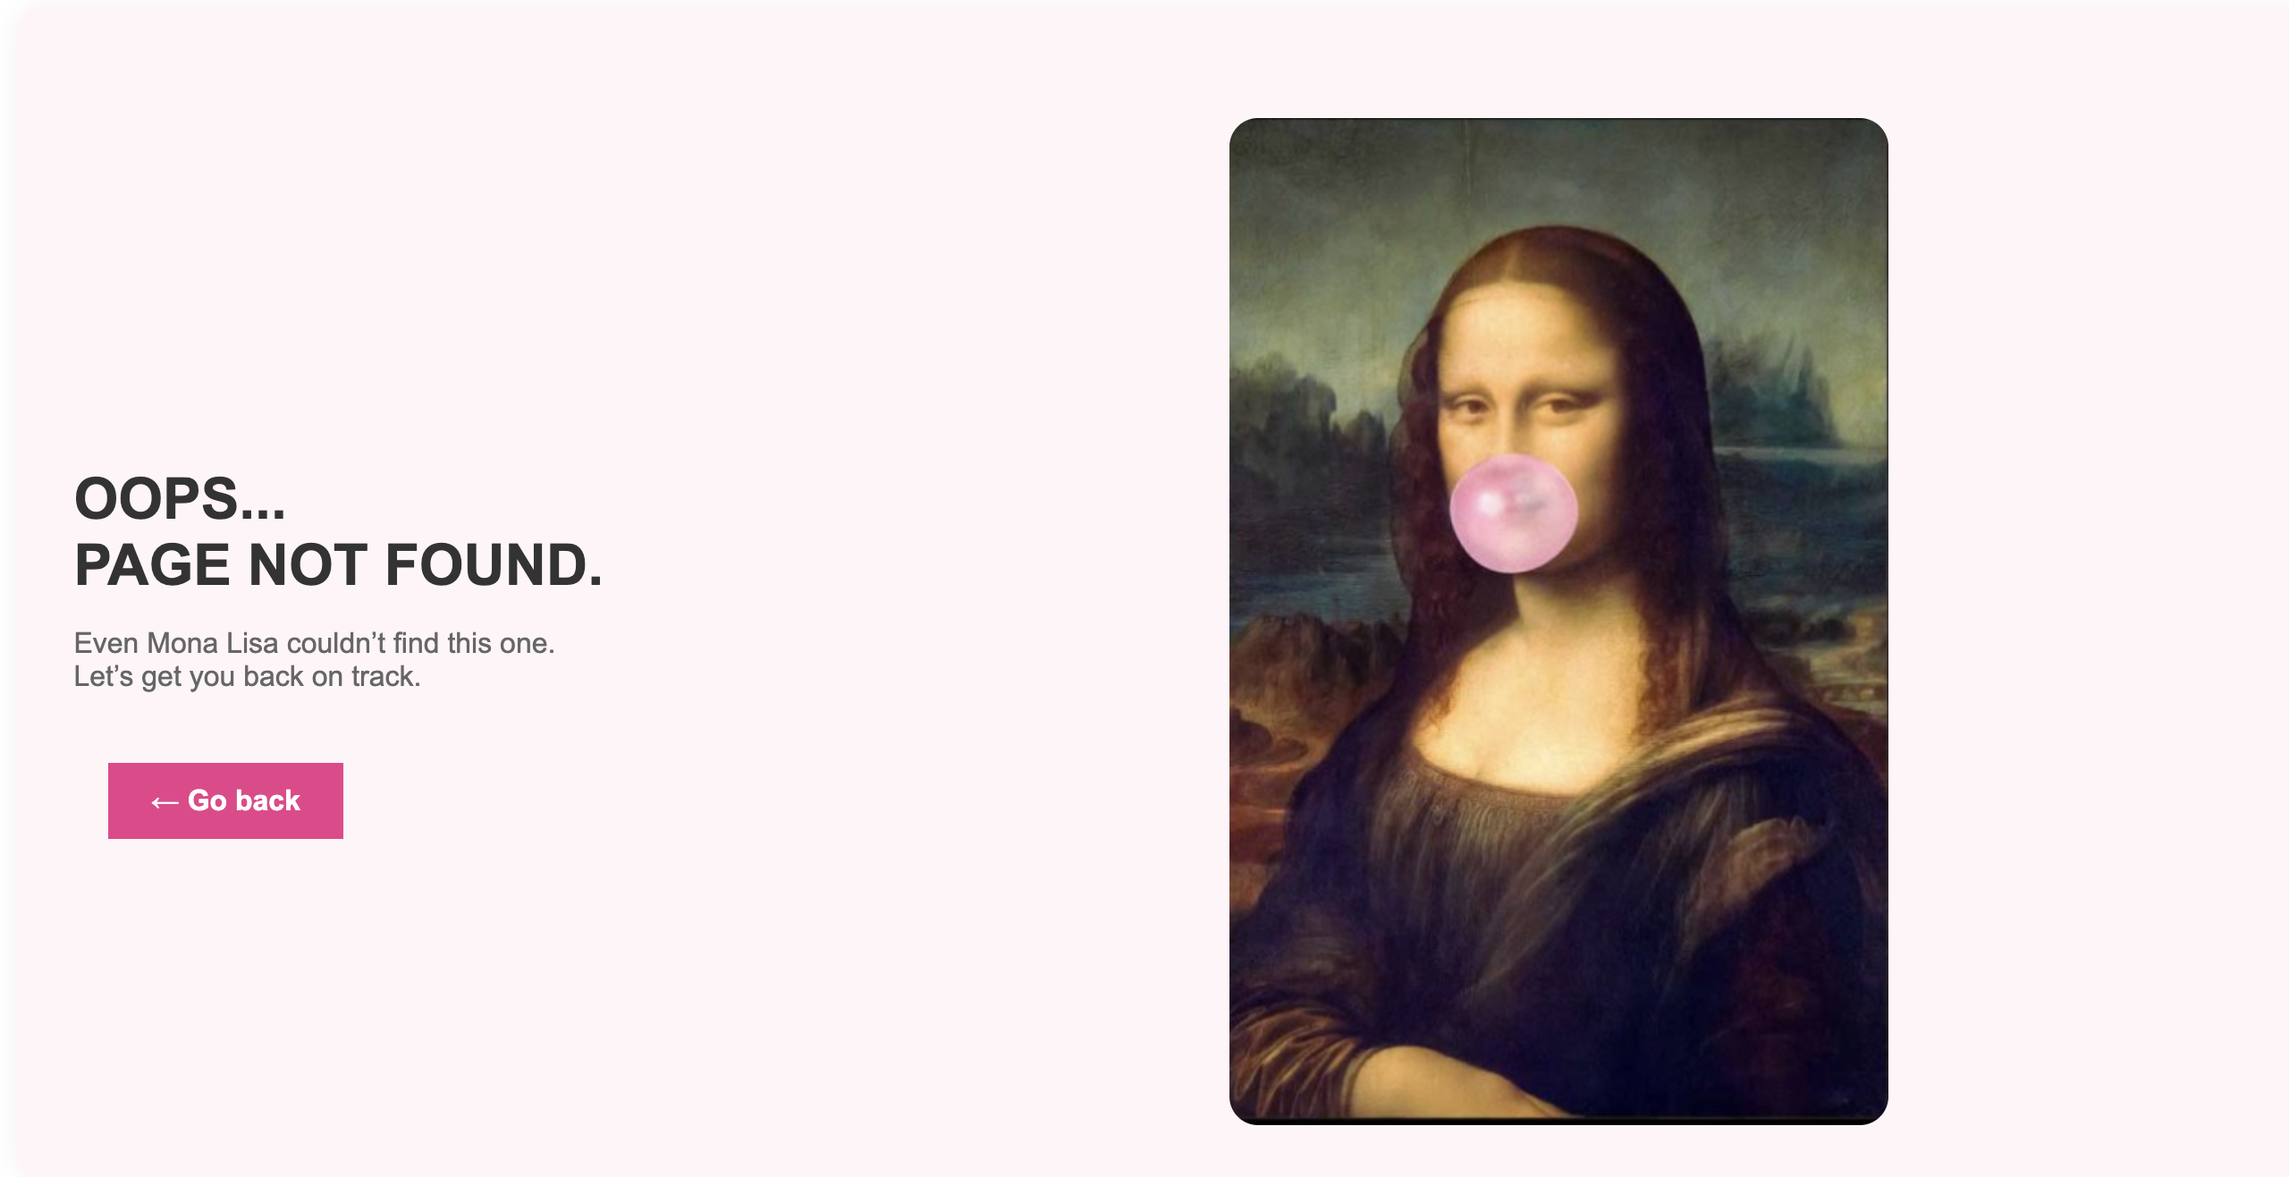
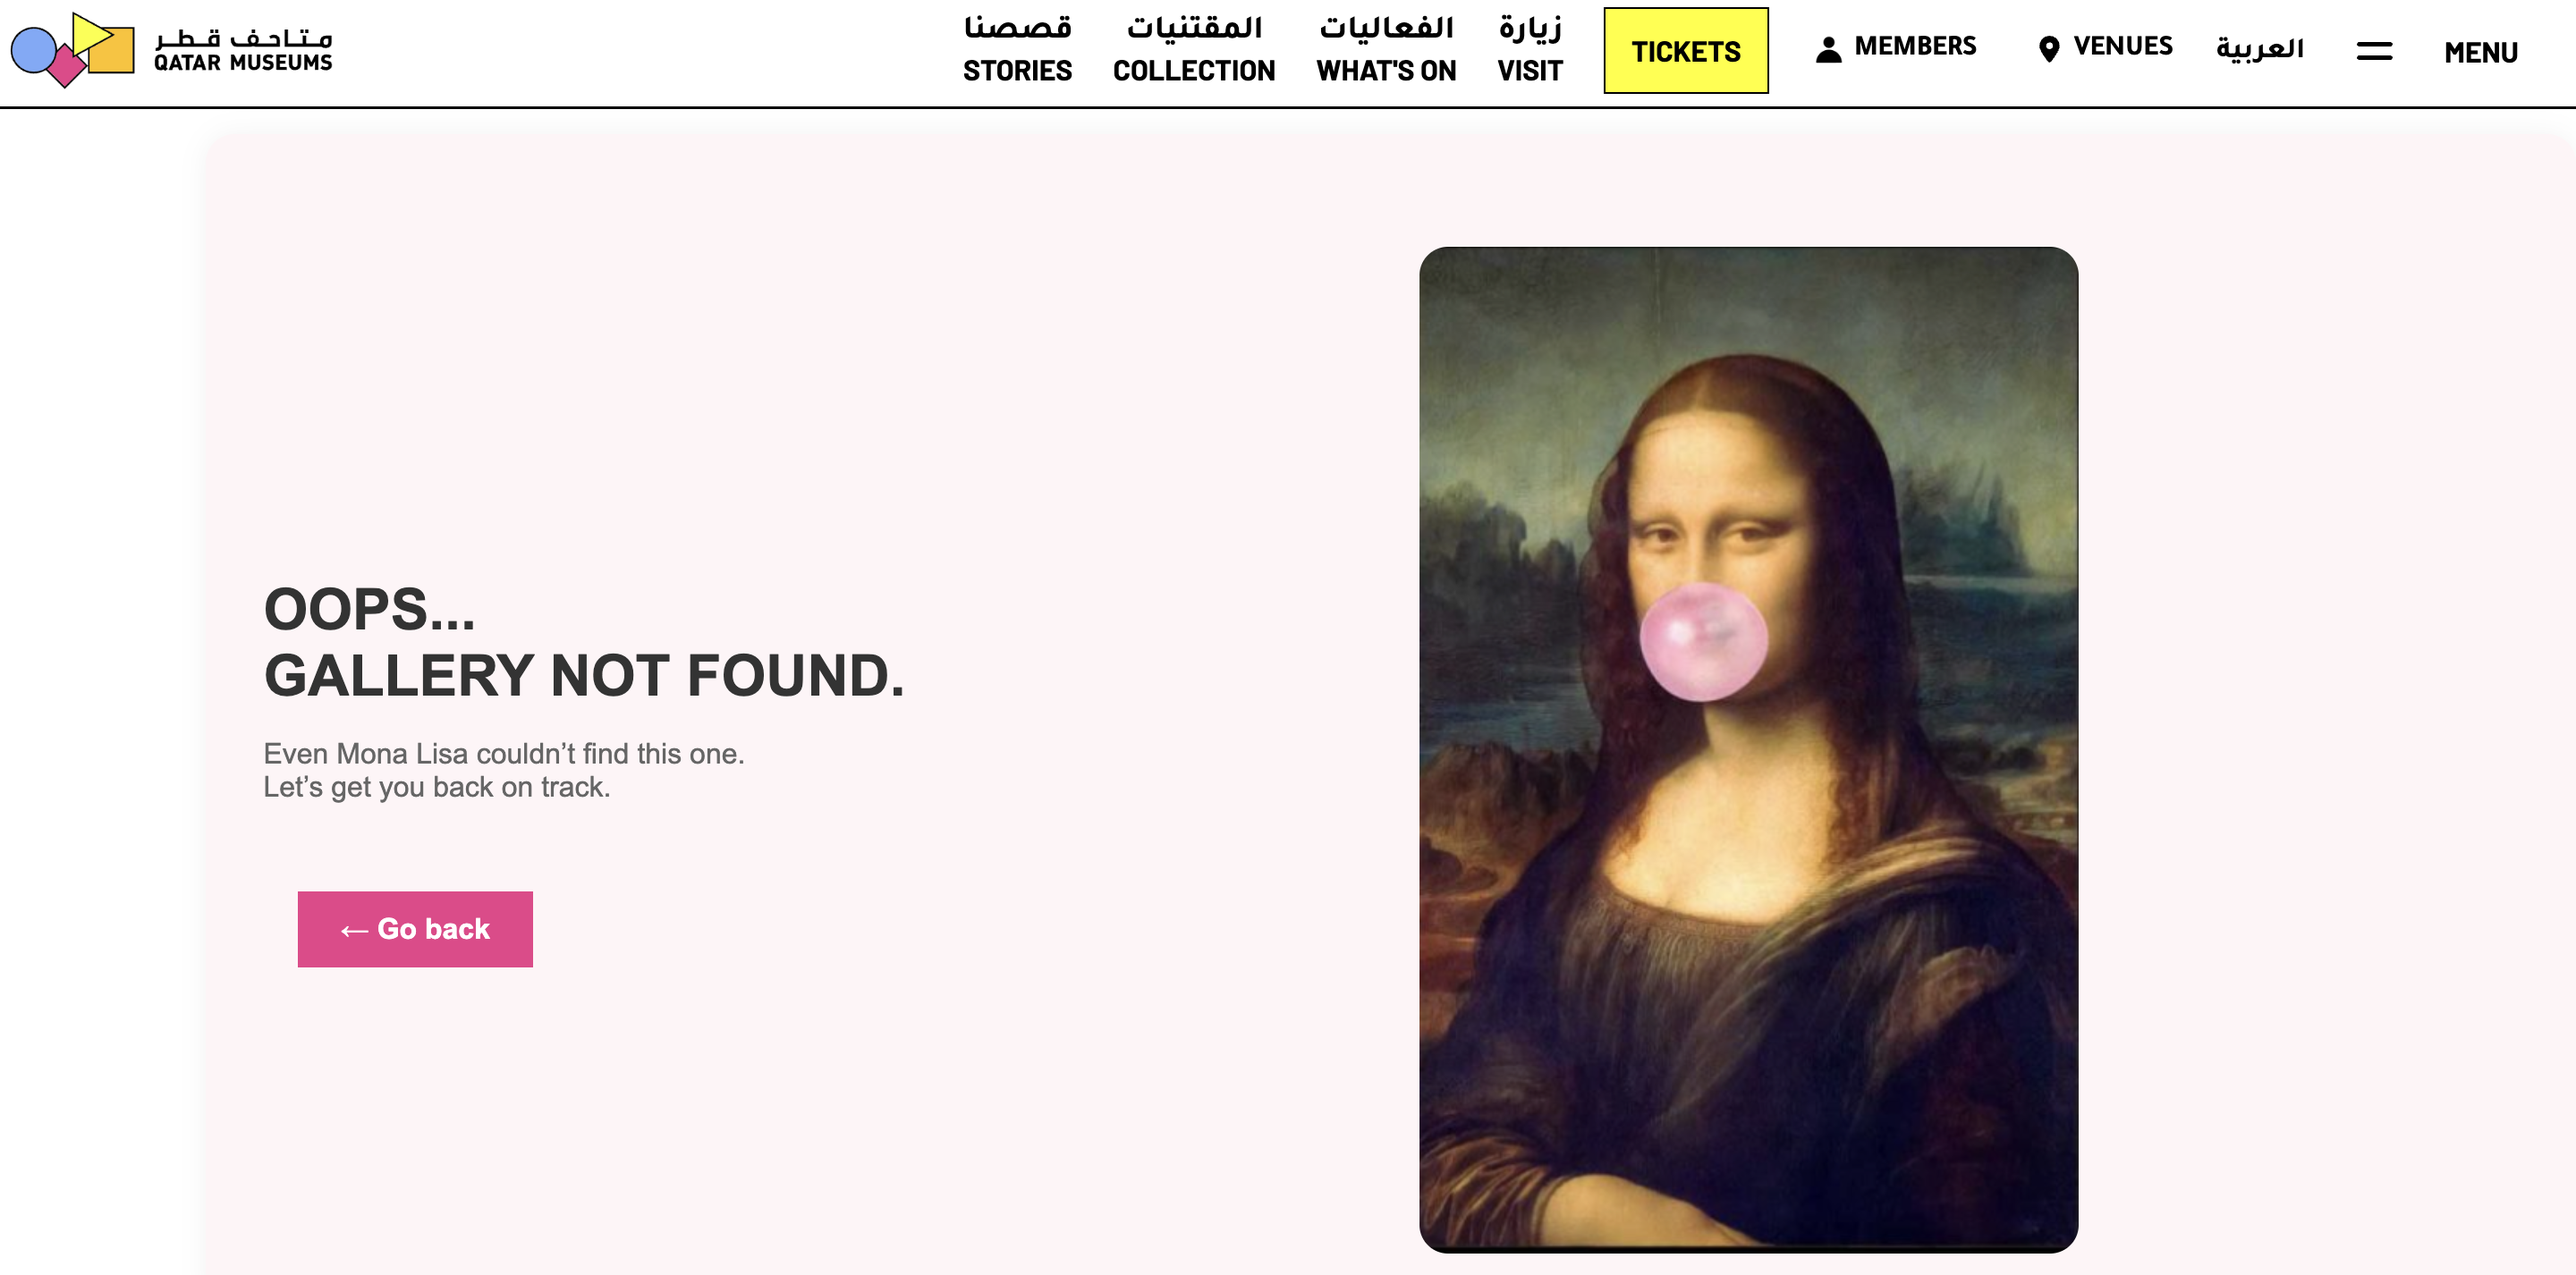
Finale code plus loading en success uit state toegevoegd

Changed region(s): [[0.375, 0.0, 1.0, 0.997], [0.0312, 0.405, 0.3438, 0.7789], [0.0, 0.0, 0.125, 0.0935]]

diff --git a/public/styles/gallery.css b/public/styles/gallery.css
@@ -26,8 +26,6 @@ Auteur: Fatima El Hilali
     @media (min-width: 1200px) { .art-gallery { column-count: 6; } }
 
 
-
-
  /* Fallback voor oudere browsers die geen column-count ondersteunen */
   .art-gallery {
     display: block; /* Gebruik een enkele kolom voor oudere browsers */
@@ -343,7 +341,10 @@ Auteur: Fatima El Hilali
     transform: translateY(0);
 }
 
-/* Stijl van de knoppen */
+
+
+
+/* Algemene stijl voor like en admin knoppen */
 .like-btn, .admin-btn {
     background: transparent;
     border: none;
@@ -354,32 +355,50 @@ Auteur: Fatima El Hilali
     width: 2.5rem; 
     height: 2.5rem;
     transition: transform 0.2s ease-in-out;
-}
-
-/* Hover effect op knoppen */
-.like-btn:hover, .admin-btn:hover {
+  }
+  
+  /* Hover effect op knoppen */
+  .like-btn:hover, .admin-btn:hover {
     transform: scale(1.1);
-}
-
-/* SVG icons zonder kleur en zonder achtergrond */
-.like-btn svg, .admin-btn svg {
+  }
+  
+  /* SVG icons standaard styling */
+  .like-btn svg, .admin-btn svg {
     width: 1.375rem; 
     height: 1.375rem; 
-    fill: var(--background-color);
-    transition: transform 0.2s ease-in-out;
-}
-
-/* Hover animatie op SVG icons */
-.like-btn:hover svg, .admin-btn:hover svg {
+    fill: var(--background-color); 
+    transition: fill 0.3s ease, transform 0.2s ease-in-out;
+  }
+  
+  /* Hover effect op SVG icons */
+  .like-btn:hover svg, .admin-btn:hover svg {
     transform: scale(1.05);
-}
-
-/* Geen blur-effect op de afbeelding */
-.art-figure .art-image {
+  }
+  
+  /* Afbeelding animatie bij hover */
+  .art-figure .art-image {
     transition: transform 0.2s ease-in-out;
-}
-
-.art-figure:hover .art-image {
+  }
+  
+  .art-figure:hover .art-image {
     transform: scale(1.02);
-}
+  }
+  
+  /* Loading: pulse animatie */
+  .like-btn.loading svg {
+    animation: spin 0.8s linear infinite;
+  }
+  
+  @keyframes spin {
+    from { transform: rotate(0deg); }
+    to   { transform: rotate(360deg); }
+  }
+  
+  
+  /*  Success: hartje blijft blauw */
+  .like-btn.success svg {
+    fill: #1E90FF; 
+  }
+  
 
+  

diff --git a/server.js b/server.js
@@ -10,7 +10,6 @@
 
 
 
-
 // Importeer het npm package Express (uit de door npm aangemaakte node_modules map)
 // Deze package is geïnstalleerd via `npm install`, en staat als 'dependency' in package.json
 import express from 'express'
@@ -99,6 +98,7 @@ app.get("/admin-dashboard", async (req, res) => {
 
 
 
+
 // Route voor het liken van een kunstwerk
 app.post("/like", async (req, res) => {
   // Stuur een POST-verzoek naar de Directus API om de like op te slaan
@@ -109,12 +109,18 @@ app.post("/like", async (req, res) => {
           text: "like",          // De inhoud van het bericht is "like"
           for: req.body.artworkId, // ID van het gelikete kunstwerk
           from: "1"                 // Fake user-ID omdat er geen inlog is
-      }),
+    }),
   });
-  //  Stuur de gebruiker terug naar de vorige pagina na het liken
-  res.redirect('/admin-dashboard');
-});
 
+    // Haal opnieuw alle kunstwerken op van de API
+  const apiResponse = await fetch("https://fdnd-agency.directus.app/items/fabrique_art_objects");
+    // Zet de response om naar JSON
+  const apiResponseJSON = await apiResponse.json();
+    // Render opnieuw de homepage met de bijgewerkte kunstwerken
+  res.render("index.liquid", {
+    artworks: apiResponseJSON.data
+  });
+});
 
 
 

diff --git a/public/scripts/gsap.js b/public/scripts/gsap.js
@@ -45,6 +45,7 @@ document.addEventListener("DOMContentLoaded", () => {
      * Kunstgalerij Fade-in Effect
      * Laat alle kunstwerken vloeiend verschijnen met een kleine schaalverandering.
      */
+    
     gsap.fromTo(
         ".art-gallery .art-item",
         { 

diff --git a/public/scripts/ScrollTrigger.js b/public/scripts/ScrollTrigger.js
@@ -8,6 +8,7 @@
  * @sprint 9
  */
 
+
 document.addEventListener("DOMContentLoaded", () => {
     // Activeert de ScrollTrigger-plugin van GSAP
     gsap.registerPlugin(ScrollTrigger);

diff --git a/README.md b/README.md
@@ -16,7 +16,7 @@ De instructie vind je in: [INSTRUCTIONS.md](https://github.com/fdnd-task/the-web
 
 Voor het Qatar Museum heb ik een homepagina ontworpen waarop verschillende galerijen worden weergegeven. Bij het klikken op een galerij kom je op een detailpagina met meer informatie.
 De informatie is beschikbaar in zowel het Engels als Arabisch. Voor sommige galerijen wordt de informatie direct uit de backend geladen.
-Gebruikers kunnen een galerij liken door met de muis over de afbeelding te gaan en op het duimpje te klikken — deze wordt dan opgeslagen op hun profielpagina.
+Gebruikers kunnen een galerij liken door met de muis over de afbeelding te gaan en op het duimpje te klikken — deze wordt dan opgeslagen op hun profielpagina. Ik heb ook een 404-foutpagina toegevoegd. Wanneer een gebruiker naar een niet-bestaande pagina navigeert, krijgt hij of zij een duidelijke foutmelding te zien.
 
 ## Live website 
 
@@ -24,9 +24,12 @@ Gebruikers kunnen een galerij liken door met de muis over de afbeelding te gaan 
 
 ## Screenshots van de website
 
-  <img src="public/assets/home.png" alt="Home screenshot" width="300" style="margin-right: 10px;" />
-  <img src="public/assets/detail.png" alt="Detail screenshot" width="300" style="margin-right: 10px;" />
+
+  <img src="public/assets/home.png" alt="Home screenshot" width="300" />
+  <img src="public/assets/detail.png" alt="Detail screenshot" width="300" />
   <img src="public/assets/profile.png" alt="Profile screenshot" width="300" />
+  <img src="public/assets/deta.png" alt="Detail screenshot" width="300" />
+  <img src="public/assets/404.png" alt="404 screenshot" width="300" />
 
 
 
